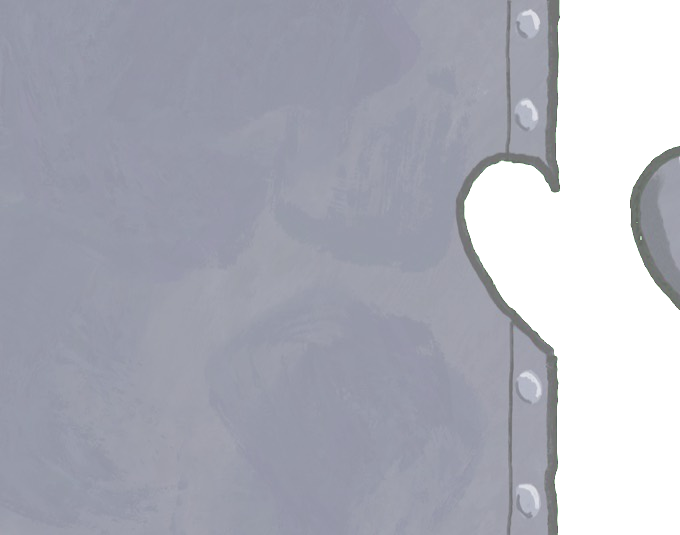
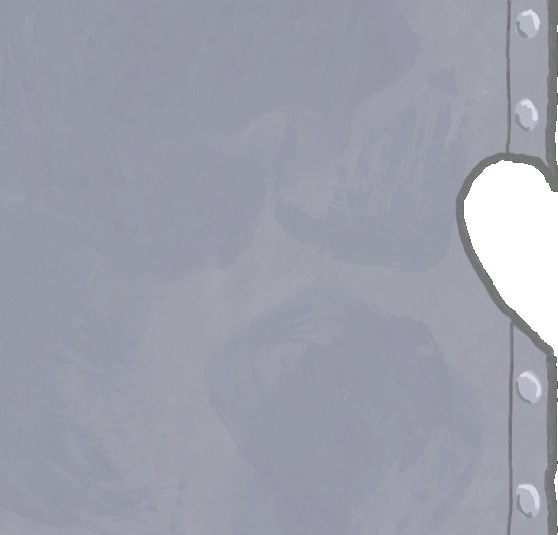
Make lockdown overlay full screen

Changed region(s): [[0.6703, 0.0, 1.0, 1.0]]

diff --git a/styles.css b/styles.css
@@ -69,7 +69,7 @@ button {
 .stage.is-active {
   opacity: 1;
   pointer-events: auto;
-  transform: translateY(0) scale(1);
+  transform: none;
 }
 
 .envelope-scene {
@@ -421,23 +421,42 @@ input:focus {
 }
 
 .door-system {
-  position: absolute;
+  --door-overlap: clamp(120px, 12vw, 190px);
+  position: fixed;
   inset: 0;
-  z-index: 8;
+  z-index: 40;
   overflow: hidden;
   pointer-events: none;
 }
 
 .door-system.is-closed {
+  background: rgba(53, 48, 53, 0.12);
   pointer-events: auto;
+}
+
+.door-system::before {
+  content: "";
+  position: absolute;
+  inset: 0;
+  z-index: 0;
+  opacity: 0;
+  background:
+    radial-gradient(circle at 45% 35%, rgba(255, 255, 255, 0.09), transparent 18%),
+    radial-gradient(circle at 62% 58%, rgba(82, 88, 100, 0.14), transparent 22%),
+    #9ba0aa;
+  transition: opacity 240ms ease 520ms;
+}
+
+.door-system.is-closed::before {
+  opacity: 1;
 }
 
 .metal-door {
   position: absolute;
+  z-index: 1;
   top: 0;
-  bottom: 0;
-  width: 56%;
-  height: 100%;
+  width: calc(50vw + var(--door-overlap));
+  height: 100vh;
   object-fit: cover;
   transition: transform 760ms cubic-bezier(0.78, 0.02, 0.12, 1);
   filter: drop-shadow(0 10px 22px rgba(0, 0, 0, 0.16));
@@ -446,13 +465,13 @@ input:focus {
 .metal-door-left {
   left: 0;
   object-position: right center;
-  transform: translateX(-108%);
+  transform: translateX(-110%);
 }
 
 .metal-door-right {
-  right: 0;
+  left: calc(50vw - var(--door-overlap));
   object-position: left center;
-  transform: translateX(108%);
+  transform: translateX(110%);
 }
 
 .door-system.is-closed .metal-door-left,
@@ -462,12 +481,12 @@ input:focus {
 
 .door-lock {
   position: absolute;
-  top: 48%;
+  top: clamp(88px, 14vh, 150px);
   left: 50%;
-  z-index: 10;
+  z-index: 3;
   transform: translate(-50%, -50%) scale(0.78) rotate(-2deg);
-  width: min(74vw, 330px);
-  padding: 14px 18px;
+  width: min(74vw, 300px);
+  padding: 12px 16px;
   border: 4px solid rgba(35, 35, 35, 0.78);
   border-radius: var(--radius);
   color: #fff3d0;
@@ -488,8 +507,8 @@ input:focus {
 
 .security-tape-system {
   position: absolute;
-  inset: -20vmax;
-  z-index: 11;
+  inset: -35vmax;
+  z-index: 4;
   pointer-events: none;
 }
 
@@ -497,8 +516,8 @@ input:focus {
   position: absolute;
   top: 50%;
   left: 50%;
-  width: 185vmax;
-  height: clamp(64px, 10vw, 110px);
+  width: 230vmax;
+  height: clamp(54px, 7vw, 86px);
   transform-origin: center;
 }
 
@@ -516,8 +535,10 @@ input:focus {
   top: 50%;
   width: 0;
   height: 100%;
-  background: url("assets/handdrawn/security-tape-strip.png") left center / 100% 100%
-    no-repeat;
+  background-image: url("assets/handdrawn/security-tape-strip.png");
+  background-position: left center;
+  background-repeat: repeat-x;
+  background-size: auto 100%;
   transform: translateY(-50%);
   filter: drop-shadow(0 8px 10px rgba(44, 36, 22, 0.18));
 }
@@ -553,10 +574,10 @@ input:focus {
 }
 
 .lockdown-retry {
-  position: absolute;
+  position: fixed;
   left: 50%;
   bottom: clamp(24px, 8vh, 70px);
-  z-index: 12;
+  z-index: 5;
   min-height: 56px;
   min-width: 160px;
   border: 0;